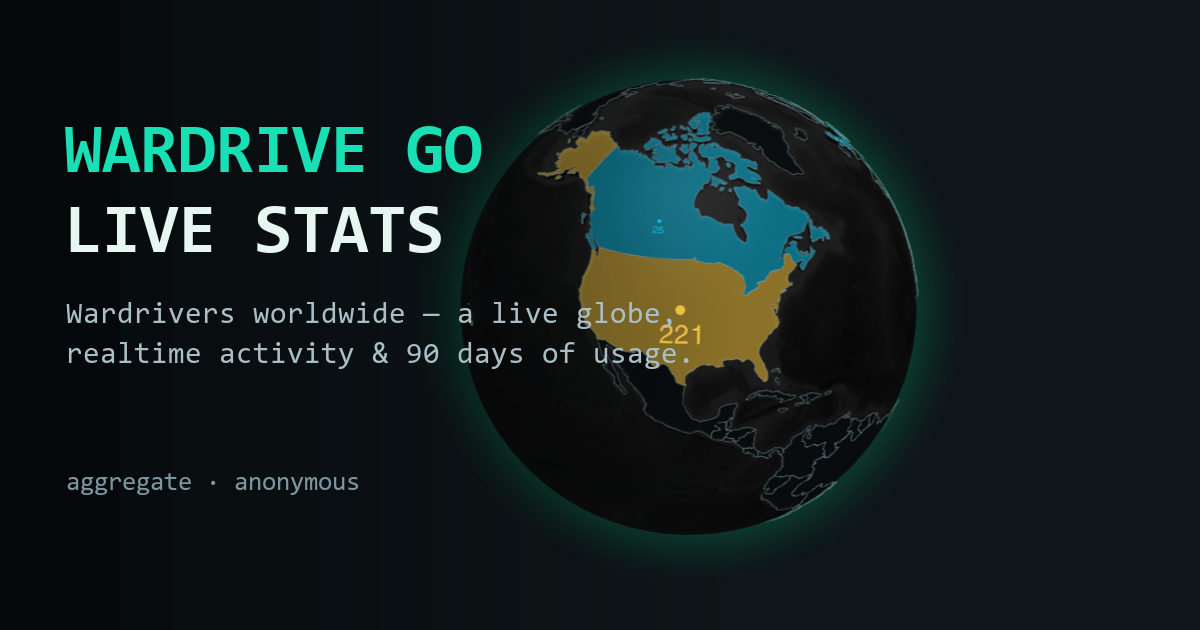
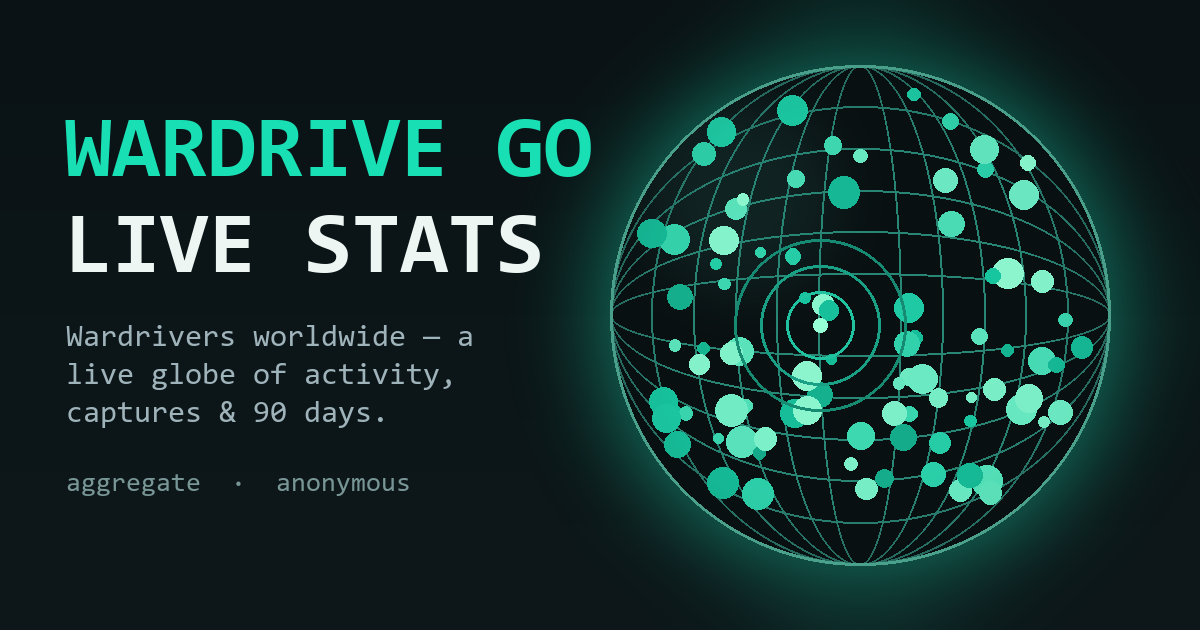
OG image: regenerate to aurora-teal theme (reproducible) + bump cache ver
The social preview still showed the OLD blue/gold globe ("221"). Add scripts/make_og.py
(Pillow) that draws a designed 1200x630 card matching the live site: dark bg, teal
"WARDRIVE GO / LIVE STATS" wordmark, and an aurora-teal data globe (dark sphere, teal
atmosphere bloom, lat/long grid, activity blobs + radar rings). Regenerate docs/og.png
and bump og.png?v=1 -> ?v=2 so Discord/Twitter re-fetch.

(The "dark green bar" on the Discord embed is Discord's own accent from our
theme-color meta #19e0b4 — not part of the image.)

Changed region(s): [[0.0308, 0.0302, 0.9558, 0.9952], [0.0617, 0.754, 0.3392, 0.7841]]

diff --git a/docs/index.html b/docs/index.html
@@ -13,14 +13,14 @@
 <meta property="og:title" content="Wardrive Go · Live Stats">
 <meta property="og:description" content="A glowing worldwide globe of wardrivers — realtime activity, handshakes, notable devices, and 90 days of usage. Aggregate & anonymous.">
 <meta property="og:url" content="https://rocketgod.dev/wardrive-stats/">
-<meta property="og:image" content="https://rocketgod.dev/wardrive-stats/og.png?v=1">
+<meta property="og:image" content="https://rocketgod.dev/wardrive-stats/og.png?v=2">
 <meta property="og:image:width" content="1200">
 <meta property="og:image:height" content="630">
 <meta property="og:image:alt" content="Wardrive Go live-stats globe">
 <meta name="twitter:card" content="summary_large_image">
 <meta name="twitter:title" content="Wardrive Go · Live Stats">
 <meta name="twitter:description" content="A glowing worldwide globe of wardrivers — realtime activity, handshakes, notable devices, and 90 days of usage.">
-<meta name="twitter:image" content="https://rocketgod.dev/wardrive-stats/og.png?v=1">
+<meta name="twitter:image" content="https://rocketgod.dev/wardrive-stats/og.png?v=2">
 <link rel="preconnect" href="https://fonts.googleapis.com">
 <link rel="preconnect" href="https://fonts.gstatic.com" crossorigin>
 <link href="https://fonts.googleapis.com/css2?family=JetBrains+Mono:wght@400;700;800&display=swap" rel="stylesheet">

diff --git a/scripts/make_og.py b/scripts/make_og.py
@@ -1,0 +1,117 @@
+#!/usr/bin/env python3
+"""Generate docs/og.png — the 1200x630 social link-preview card for wardrive-stats.
+
+A designed card (NOT a WebGL screenshot): dark background + an "aurora teal" stylised data globe
+(dark sphere, teal atmosphere bloom, lat/long grid, activity blobs + pulsing radar rings) + the
+WARDRIVE GO / LIVE STATS wordmark. Matches the live dashboard's aurora-teal theme, so the shared
+preview and the site agree. Deterministic (fixed seed) so re-runs are byte-stable-ish.
+
+Run:  python scripts/make_og.py      (writes docs/og.png)
+"""
+import math, os, random
+from PIL import Image, ImageDraw, ImageFilter, ImageFont
+
+W, H = 1200, 630
+BG_TOP, BG_BOT = (10, 18, 21), (14, 24, 27)
+TEAL = (25, 224, 180)
+MINT = (150, 255, 214)
+MUTED = (159, 179, 186)
+HERE = os.path.dirname(os.path.abspath(__file__))
+OUT = os.path.join(HERE, "..", "docs", "og.png")
+FONT_DIR = "C:/Windows/Fonts"
+
+
+def font(name, size):
+    try:
+        return ImageFont.truetype(os.path.join(FONT_DIR, name), size)
+    except Exception:
+        return ImageFont.load_default()
+
+
+def main():
+    random.seed(7)
+    img = Image.new("RGB", (W, H), BG_TOP)
+    # vertical gradient background
+    px = img.load()
+    for y in range(H):
+        t = y / (H - 1)
+        c = tuple(int(BG_TOP[i] + (BG_BOT[i] - BG_TOP[i]) * t) for i in range(3))
+        for x in range(W):
+            px[x, y] = c
+    base = img.convert("RGBA")
+
+    cx, cy, R = 860, 315, 250
+
+    # --- atmosphere bloom (teal glow behind the sphere) ---
+    glow = Image.new("RGBA", (W, H), (0, 0, 0, 0))
+    gd = ImageDraw.Draw(glow)
+    gd.ellipse([cx - R * 1.18, cy - R * 1.18, cx + R * 1.18, cy + R * 1.18], fill=TEAL + (120,))
+    glow = glow.filter(ImageFilter.GaussianBlur(55))
+    base = Image.alpha_composite(base, glow)
+
+    # --- the globe is built on its own layer, then clipped to the sphere with a circular mask ---
+    layer = Image.new("RGBA", (W, H), (0, 0, 0, 0))
+    ld = ImageDraw.Draw(layer)
+    # dark sphere body
+    ld.ellipse([cx - R, cy - R, cx + R, cy + R], fill=(9, 16, 18, 255))
+    # subtle top-left radial highlight for roundness
+    hi = Image.new("RGBA", (W, H), (0, 0, 0, 0))
+    hd = ImageDraw.Draw(hi)
+    hd.ellipse([cx - R * 0.7 - 70, cy - R * 0.7 - 70, cx + R * 0.3 - 70, cy + R * 0.3 - 70], fill=(30, 70, 66, 90))
+    layer = Image.alpha_composite(layer, hi.filter(ImageFilter.GaussianBlur(40)))
+    ld = ImageDraw.Draw(layer)
+    # lat/long grid
+    grid = (120, 200, 190, 55)
+    for i in range(1, 6):
+        ry = R * i / 6.0
+        ld.ellipse([cx - R, cy - ry, cx + R, cy + ry], outline=grid, width=2)
+    for i in range(1, 6):
+        rx = R * i / 6.0
+        ld.ellipse([cx - rx, cy - R, cx + rx, cy + R], outline=grid, width=2)
+    ld.ellipse([cx - R, cy - R, cx + R, cy + R], outline=(140, 255, 222, 120), width=3)
+
+    # activity blobs — teal "countries" of varying brightness, kept inside the sphere
+    def inside(x, y, pad=14):
+        return (x - cx) ** 2 + (y - cy) ** 2 <= (R - pad) ** 2
+
+    blobs = []
+    for _ in range(90):
+        a = random.uniform(0, 2 * math.pi)
+        rr = R * math.sqrt(random.uniform(0, 1)) * 0.92
+        x, y = cx + rr * math.cos(a), cy + rr * math.sin(a)
+        if inside(x, y):
+            blobs.append((x, y, random.uniform(5, 16), random.uniform(0.35, 1.0)))
+    for (x, y, s, b) in blobs:
+        col = tuple(int(TEAL[i] + (MINT[i] - TEAL[i]) * (b - 0.5) * 2) if b > 0.5 else
+                    int(TEAL[i] * (0.5 + b)) for i in range(3))
+        ld.ellipse([x - s, y - s, x + s, y + s], fill=col + (int(150 + 90 * b),))
+
+    # a couple of radar rings around the brightest hotspot
+    hx, hy = cx - 40, cy + 10
+    for rad, al in ((34, 160), (60, 90), (86, 45)):
+        ld.ellipse([hx - rad, hy - rad, hx + rad, hy + rad], outline=(40, 240, 196, al), width=3)
+    ld.ellipse([hx - 7, hy - 7, hx + 7, hy + 7], fill=MINT + (255,))
+
+    # clip everything to the sphere
+    mask = Image.new("L", (W, H), 0)
+    ImageDraw.Draw(mask).ellipse([cx - R, cy - R, cx + R, cy + R], fill=255)
+    base.paste(layer, (0, 0), Image.composite(layer.split()[3], Image.new("L", (W, H), 0), mask))
+
+    # --- wordmark + copy (left) ---
+    d = ImageDraw.Draw(base)
+    f_title = font("consolab.ttf", 88)
+    f_sub = font("consola.ttf", 31)
+    f_small = font("consola.ttf", 27)
+    d.text((64, 110), "WARDRIVE GO", font=f_title, fill=TEAL)
+    d.text((64, 206), "LIVE STATS", font=f_title, fill=(238, 246, 243))
+    d.text((66, 322), "Wardrivers worldwide \u2014 a", font=f_sub, fill=MUTED)
+    d.text((66, 360), "live globe of activity,", font=f_sub, fill=MUTED)
+    d.text((66, 398), "captures & 90 days.", font=f_sub, fill=MUTED)
+    d.text((66, 470), "aggregate  \u00b7  anonymous", font=f_small, fill=(120, 150, 150))
+
+    base.convert("RGB").save(OUT, "PNG")
+    print("wrote", os.path.normpath(OUT))
+
+
+if __name__ == "__main__":
+    main()
